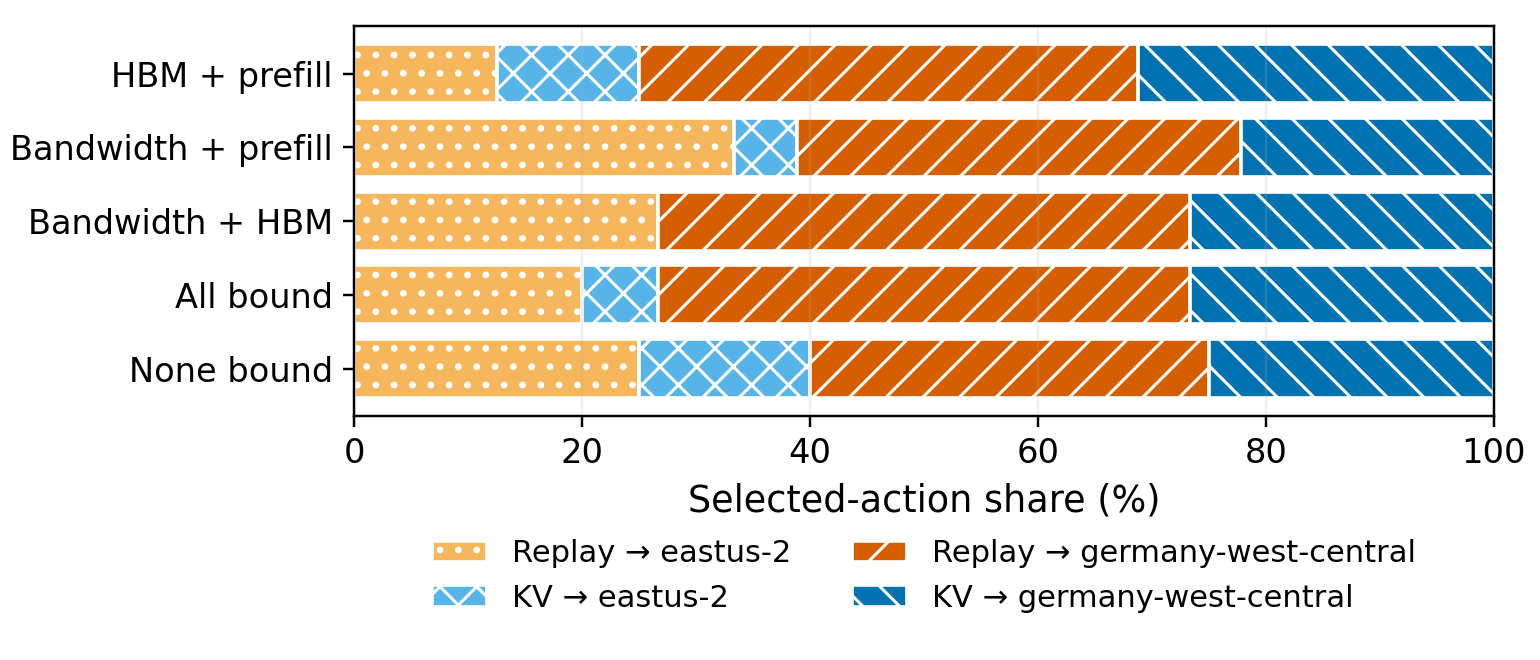
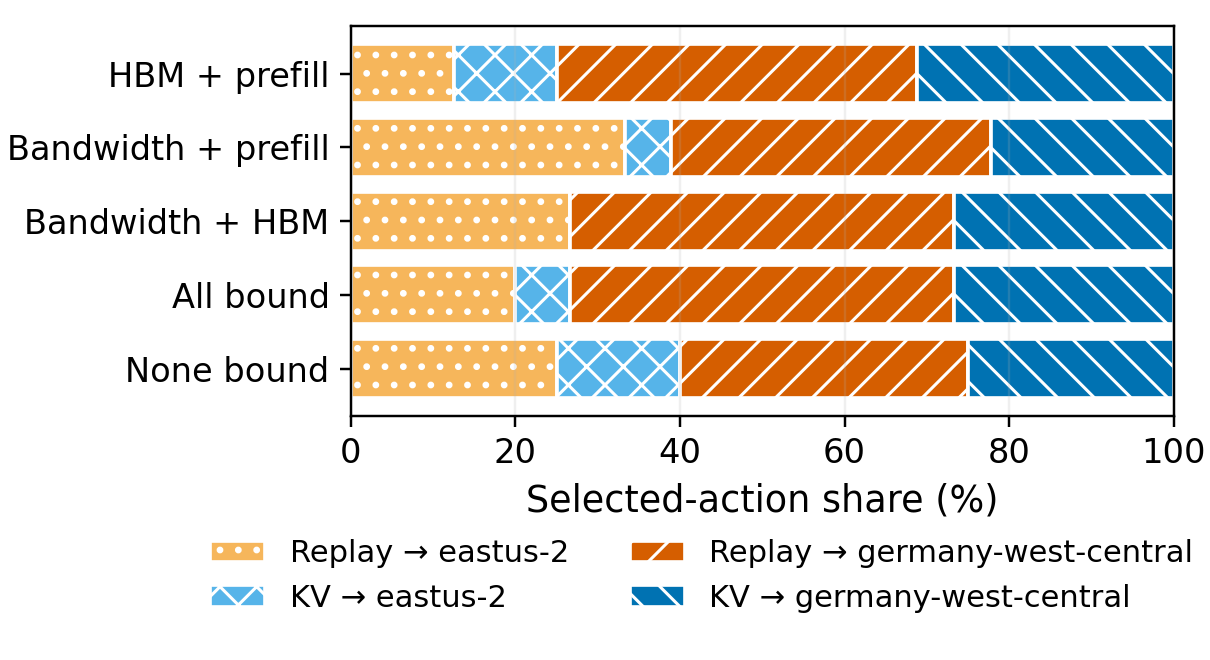
Resize action mix figures to five and a half inches

diff --git a/agent-migrate/queue-haul/repair_plan_shift_campaign.py b/agent-migrate/queue-haul/repair_plan_shift_campaign.py
@@ -79,7 +79,7 @@ def _plot(rows, path):
         "germany_replay": "Replay → germany-west-central",
         "germany_kv_transfer": "KV → germany-west-central",
     }
-    fig, axis = plt.subplots(figsize=(7, 3))
+    fig, axis = plt.subplots(figsize=(5.5, 3))
     left = np.zeros(len(rows))
     for action in MIX:
         values = np.array([row[action] / row["planned_sessions"]
@@ -98,8 +98,8 @@ def _plot(rows, path):
     axis.xaxis.label.set_size(12)
     handles, labels = axis.get_legend_handles_labels()
     fig.legend(handles, labels, frameon=False, ncol=2, loc="lower center",
-               bbox_to_anchor=(.6, .03), fontsize=10, handlelength=1.8)
-    fig.subplots_adjust(left=.25, right=.97, bottom=.37, top=.96)
+               bbox_to_anchor=(.58, .03), fontsize=10, handlelength=1.8)
+    fig.subplots_adjust(left=.32, right=.97, bottom=.37, top=.96)
     for suffix in ("png", "pdf"):
         fig.savefig(path.with_suffix(f".{suffix}"), dpi=plot_style.SAVE_DPI)
     plt.close(fig)

diff --git a/agent-migrate/queue-haul/plot_pooled_action_adaptation.py b/agent-migrate/queue-haul/plot_pooled_action_adaptation.py
@@ -17,7 +17,7 @@ from plot_pooled_shed_frontier import pooled_cases, write_csv
 
 
 POLICY = "queue_haul_lp"
-ACTION_MIX_FIGSIZE = (7, 3)
+ACTION_MIX_FIGSIZE = (5.5, 3)
 ACTION_MIX_TICK_SIZE = 11
 ACTION_MIX_LABEL_SIZE = 12
 ACTION_MIX_LEGEND_SIZE = 10
@@ -122,9 +122,9 @@ def _controlled_action_mix(rows, out):
     axis.xaxis.label.set_size(ACTION_MIX_LABEL_SIZE)
     handles, legend_labels = axis.get_legend_handles_labels()
     fig.legend(handles, legend_labels, frameon=False, ncol=2,
-               loc="lower center", bbox_to_anchor=(.6, .03),
+               loc="lower center", bbox_to_anchor=(.58, .03),
                fontsize=ACTION_MIX_LEGEND_SIZE, handlelength=1.8)
-    fig.subplots_adjust(left=.23, right=.97, bottom=.37, top=.96)
+    fig.subplots_adjust(left=.29, right=.97, bottom=.37, top=.96)
     _save(fig, out / "controlled_action_mix", tight=False)
     plt.close(fig)
 

diff --git a/agent-migrate/queue-haul/tests/test_pooled_action_adaptation.py b/agent-migrate/queue-haul/tests/test_pooled_action_adaptation.py
@@ -82,6 +82,6 @@ def test_action_mix_uses_five_resource_states_with_bound_extremes_adjacent():
         ("hardware_gap/all-release", "None bound"),
     )
     assert all(case != "constraint/quota-30" for case, _ in ACTION_MIX_CASES)
-    assert ACTION_MIX_FIGSIZE == (7, 3)
+    assert ACTION_MIX_FIGSIZE == (5.5, 3)
     assert (ACTION_MIX_TICK_SIZE, ACTION_MIX_LABEL_SIZE,
             ACTION_MIX_LEGEND_SIZE) == (11, 12, 10)
